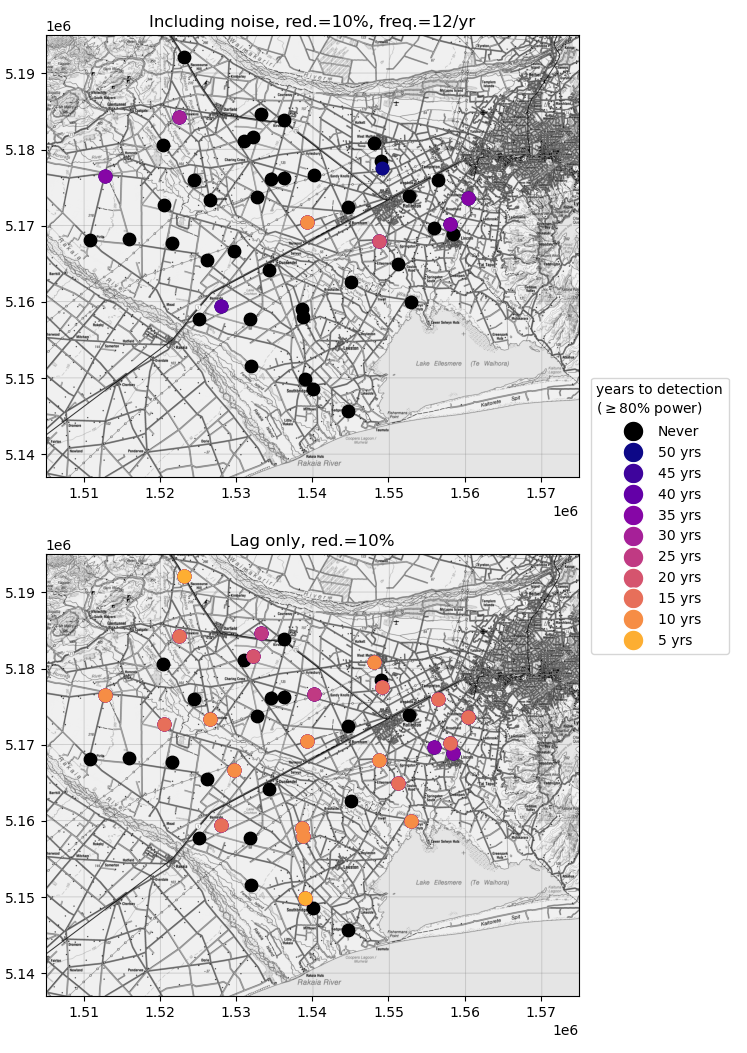
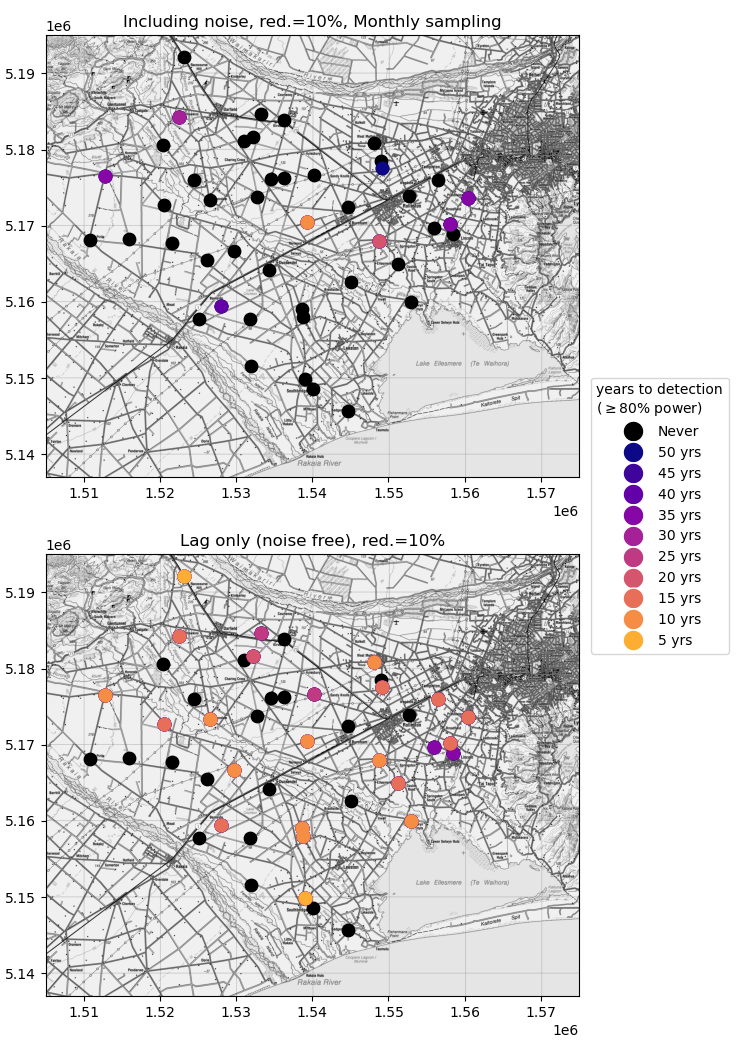
update figures, finish tweaking format, finish main body review

Changed region(s): [[0.1539, 0.0, 0.6774, 0.0304], [0.2771, 0.4862, 0.5234, 0.5166], [0.5542, 0.4862, 0.585, 0.5166]]

diff --git a/final_report_tex/custom_sections/results_discussion.tex b/final_report_tex/custom_sections/results_discussion.tex
@@ -20,7 +20,7 @@ The correct interpretation of this plot is that the lag at this well only allows
 However, if we consider the obscuration of noise, then with quarterly sampling the detection power is only likely to exceed 80\% in 2037 (gold line).
 We use the cutoff of 80\% as it is typically used nationally and internationally as the acceptable threshold for confidently drawing conclusions and/or making decisions from the monitoring results interpretation\citep{dumont_determining_nodate}.
 
-\kslfig {0.95\textwidth}{../GeneratedData/power_calc_site_plots/m36_3588_red30}{An example of the individual site detection power plots}{ex_plot}
+\kslfig {0.95\textwidth}{../GeneratedData/power_calc_site_plots/m36_3588_red30}{An example of the individual site detection power plots}{ex_plot}{}
 
 %--------------------------------------------------------------------------------------------------------------
 \subsubsection[Plateau Sites]{Plateau Sites: Sites Where \gls{no3n} Concentrations Will Not Decrease Under the assumed Pathway} \label{sec:plateau_results}
@@ -32,7 +32,6 @@ We refer to these sites as plateau sites. An example of a plateau site is shown 
 Well L35/0205 is a plateau site because the steep increasing trend in concentration in combination with the significant \gls{mrt} suggest that the source and receptor concentration are at a significant disequilibrium.
 Therefore, the rather minor reductions (10\%) in the assumed pathway will simply lower the eventual steady state concentration (e.g., gold vs fuchsia lines), but will not reduce the concentration below the observed initial concentration (sen slope fit in 2017).
 
-\kslfig {.95\textwidth}{../GeneratedData/power_calc_plateau_sites/l35_0205_red10}{An example of a Plateau Site}{ex_plateau}
 
 These plateau sites can cause a significant challenge in detection of nitrate leaching reductions.
 Our knowledge of equilibrium nitrate concentrations in the absence of nitrate loss reductions is poor.
@@ -40,25 +39,24 @@ This makes it difficult to understand the cause of any difference between a futu
 The differences could be due a number of factors \autoref{sec:intro} as well as, on the ground actions not actually being implemented and/or inaccuracies in the estimate of steady state concentration.
 These sites will require more sophisticated statistical analysis (for instance a counter-factual approach) to determine whether the \gls{pc1} nitrate loss reductions have been implemented.
 
-\autoref{fig:plateau_locs} shows the location of these plateau sites and at and the maximum nitrate loss reduction at which concentrations will plateau. % todo flip to will show a decreasing trend at >= 5% reduction
+\autoref{fig:plateau_locs} shows the location of these plateau sites and the required reduction to yeild a decreasing \gls{no3n} slope in the receptor.
 Note we did not include the surface water features here as there is too much uncertainty surrounding their \gls{mrt}.
-For the red shaded sites nitrate concentrations would be expected to plateau if the average nitrate loss reduction in the monitoring well capture zone is less than or equal to 5\% but would show a concentration decline if the reduction is greater than 5\%.
-Nitrate concentration reductions of 30\% or less are unlikely to result in nitrate concentration reductions for the fuchsia shaded sites.
+For the red shaded sites nitrate concentrations would only expect to decline in the well if the average nitrate loss reduction in the monitoring well capture zone is greater than 5\% otherwise the \gls{no3n} concentrations will plateau at a lower level than if no reductions had occurred.
 If an average nitrate loss reduction of 10\% is assumed, nitrate concentrations in the fuchsia, gold and blue shaded sites would all plateau at some point in the future, with no measurable decrease occurring.
 \autoref{tab:plateau} shows the percent of the groundwater network that will not show a decrease in \gls{no3n} concentrations at a given reduction level in the source.
 For example, 57\% of the groundwater network will not show a decrease in \gls{no3n} concentrations if the source is reduced by 5\%.
 This suggests that the \gls{pc1} reductions may not yield steady state concentrations below 2017 concentrations for a significant portion of groundwater network; however this is not necessarily a failure of \gls{pc1} as concentrations were expected to continue to increase after the implementation of \gls{pc1}, but to achieve an average concentration of <8.5 mg/l.
 
+\kslfig {.95\textwidth}{../GeneratedData/power_calc_plateau_sites/l35_0205_red10}{An example of a Plateau Site}{ex_plateau}{}
+
 \begin{landscape}
-    \kslfig {1.25\textwidth}{../GeneratedData/geospatial_plots/plateau_locs}{The \gls{no3n} reduction at which a given site will not show a negaitve slope but instead will reach a lower steady state concentration (wells only)}{plateau_locs}
+    \kslfig {1.25\textwidth}{../GeneratedData/geospatial_plots/plateau_locs}{The \gls{no3n} reductions needed at which a given site to yield a negaitve slope rather than a lower steady state concentration (wells only)}{plateau_locs}{}
 \end{landscape}
 
 %--------------------------------------------------------------------------------------------------------------
 \subsection[Mean Residence Time Impacts]{Mean Residence Time, Steady State Concentration, and Detection Power} \label{sec:mrt_results}
 
-%todo include breakaway or similar about how MRT is used.
-
-\begin{wrapfigure}{r}{0.5\textwidth}
+\begin{wrapfigure}{R}{0.5\textwidth}
     \begin{breakawaybox}[
         label={box:wierdresults}]{Counterinuitive Results}
         Some of the results here are counterintuitive; for instance, in \autoref{fig:sw_mrt} the detection power is higher with a \gls{mrt} of 10 years than with a \gls{mrt} of 5 years. Additionally, for some receptors (not pictured) the detection power increases and then subsequently decreases with increasing sampling duration.
@@ -88,10 +86,21 @@ Note that the counterintuitive result that the detection power with \gls{mrt} of
 
 
 %--------------------------------------------------------------------------------------------------------------
+\pagebreak
 \subsection[Network Detection Power]{Network Level Detection Power} \label{sec:network_results}
-\kslfig {0.95\textwidth}{../GeneratedData/geospatial_plots/detect_power_locs_red20_freq4}{Sampling duration until the probability of detecting a reduction is $\geq80\%$ }{timetodetect}
+\kslfig {0.95\textwidth}{../GeneratedData/geospatial_plots/detect_power_locs_red20_freq4}{Sampling duration until the probability of detecting a reduction is $\geq80\%$ }{timetodetect}{}
 
-%todo how many sites quarterly or greater (breakaway box?)
+
+\begin{wrapfigure}{R}{0.5\textwidth}
+    \begin{breakawaybox}[label={box:sfreq}]{Historical mean well sampling frequency}
+        \begin{itemize}
+        \item \textbf{Annually - Biannually}: 27 sites
+        \item \textbf{Biannually - Quarterly}: 10 sites
+        \item \textbf{Quarterly +}: 9 sites
+        \item \textbf{46 sites total}
+        \end{itemize}
+    \end{breakawaybox}
+\end{wrapfigure}
 
 \autoref{fig:network20} shows the sampling duration required to detect \gls{pc1} nitrate loss reductions (assuming a full 20\% reduction) with 80\% probability using quarterly sampling.
 The black dashed line in \autoref{fig:network4per} shows the percentage of the network which can detect \gls{pc1} reductions assuming that the true receptor concentration (i.e., with no noise) is known.
@@ -107,16 +116,6 @@ At current quarterly sampling rates, it will likely take until 2062 before 15 si
 Increasing to weekly or monthly sampling would improve the detection power of the network, and we could expect detection in those 15 sites by 2042 and 2037, respectively.
 However, any increase in sampling frequency would require a proportional increase in resource for the monitoring programmes.
 
-\begin{landscape}
-
-    \kslfig {1.25\textwidth}{../GeneratedData/overview_plots/well_detection_overview_red20}{The proportion of the groundwater network whick is likely to detect the full \gls{pc1} reductions (20\%)}{network20}
-
-    \kslfig {1.25\textwidth}{../GeneratedData/overview_plots/well_detection_overview_freq4}{The propotaion of the groundwater network which is likely to detect reduction at the current quarterly sampling frequency}{network4per}
-
-    \kslfig {1.25\textwidth}{../GeneratedData/overview_plots/well_detection_overview_red10}{The proportion of the groundwater network whick is likely to detect the full \gls{pc1} reductions (10\%)}{network10}
-
-\end{landscape}
-
 \autoref{fig:network4per} shows the effect of different reductions on detection power with a quarterly sampling frequency.
 Note that these figures exclude the plateau sites (see \autoref{sec:plateau_results} and \autoref{tab:plateau}).
 If we assume 10\% reductions on average in the source zone, then:
@@ -125,6 +124,16 @@ If we assume 10\% reductions on average in the source zone, then:
     \item With quarterly sampling we would not expect to see evidence of a 10\% reduction in more than 10\% of the remaining network and not until after 2050.
     \item Increasing sampling frequencies to monthly or weekly would significantly improve the probability of detection these changes(\autoref{fig:network10}). Note that increasing sampling frequency will not impact the plateau sites.
 \end{enumerate}
+
+\begin{landscape}
+
+    \kslfig {1.25\textwidth}{../GeneratedData/overview_plots/well_detection_overview_red20}{The proportion of the groundwater network whick is likely to detect the full \gls{pc1} reductions (20\%)}{network20}{}
+
+    \kslfig {1.25\textwidth}{../GeneratedData/overview_plots/well_detection_overview_freq4}{The propotaion of the groundwater network which is likely to detect reduction at the current quarterly sampling frequency}{network4per}{}
+
+    \kslfig {1.25\textwidth}{../GeneratedData/overview_plots/well_detection_overview_red10}{The proportion of the groundwater network whick is likely to detect the full \gls{pc1} reductions (10\%)}{network10}{}
+
+\end{landscape}
 
 %--------------------------------------------------------------------------------------------------------------
 \subsection[Counterfactual Approach]{The Benefits of a Future Counterfactual Approach} \label{sec:counterfactual}

diff --git a/final_report_tex/custom_sections/methodology.tex b/final_report_tex/custom_sections/methodology.tex
@@ -15,7 +15,7 @@ Note that the age data is not available for all sites.
 
 \begin{breakawaybox}[label={box:mrt}]{How mean residence time is identified}
     Groundwater ages are typically estimated from measured environmental tracers such as \gls{cfc}, \gls{h3} and \gls{sf6}.
-    We have historical atmospheric concentrations of these tracers and, because these tracer are conservative (concentrations do not change over time) or breakdown in a constant rate can use them to estimate the age of the groundwater.  This is typically done using simple 1d mixing models, such as the \gls{epfm}. These mixing models provide a distribution of ages for the water in the sample and the mean of this distribution is the \gls{mrt}. Because these mixing models simplify the systems there is some inherent, often unquantified, uncertainty in the age estimates. Nevertheless, these ages provide useful constraints on the distribution of ages in the aquifer and are useful for understanding the potential pathways of contaminants.
+    We have historical atmospheric concentrations of these tracers and, because these tracer are conservative (concentrations do not change over time) or breakdown in a constant rate can use them to estimate the age of the groundwater. This is typically done using simple 1d mixing models, such as the \gls{epfm}. These mixing models provide a distribution of ages for the water in the sample and the mean of this distribution is the \gls{mrt}. Because these mixing models simplify the systems there is some inherent, often unquantified, uncertainty in the age estimates. Nevertheless, these ages provide useful constraints on the distribution of ages in the aquifer and are useful for understanding the potential pathways of contaminants.
 
 \end{breakawaybox}
 
@@ -30,10 +30,10 @@ The data was processed as follows:
     \item \textbf{Estimate the age distribution, streams}: There was no age estimates for the spring fed streams and the Selwyn-Waikirikiri; therefore we assessed the detection power assuming a range \gls{mrt} values: 5, 10, 20, and 30 years. The other age model parameters were assumed to be the median of all sites within (7.5 or 10 km) and <=10m depth. Further details are available in the \gls{proj_repo}
 \end{enumerate}
 
-\kslfig {0.90\textwidth}{figures/m36_8187}{Site M36/8187: note the "true" outliers (black) and the trend outliers(red)}{ex_outlier_trend}
+\kslfig {0.90\textwidth}{figures/m36_8187}{Site M36/8187: note the "true" outliers (black) and the trend outliers(red)}{ex_outlier_trend}{}
 
 \begin{landscape}
-    \kslfig{1.25\textheight}{../figures/selwyn_sites}{Final Site Locations}{sitelocs}
+    \kslfig{1.25\textheight}{../figures/selwyn_sites}{Final Site Locations}{sitelocs}{}
 \end{landscape}
 
 
@@ -62,12 +62,13 @@ The method to calculate the detection power of a given site was implemented afte
 using our open source package\citep{dumont_komanawagw_detect_power_2023}.
 Briefly the methodology is as follows for each site:
 
-\begin{wrapfig}{r}{0.4\textwidth}
+\begin{wrapfigure}{R}{0.70\textwidth}
     \begin{breakawaybox}[label={box:dp}]{What is Detection Power}
-        Detection power is the percent probability of detecting a statistically robust trend in the receptor concentration time series. Noisy data reduces the detection power while more frequent sampling increases the detection power. 
-        \includegraphics{figures/dp_ex}
+        Detection power is the percent probability of detecting a statistically robust trend in the receptor concentration time series. Noisy data reduces the detection power while more frequent sampling increases the detection power.
+        \\
+        \includegraphics[width=0.95\textwidth]{figures/dp_ex}
     \end{breakawaybox}
-\end{wrapfig}
+\end{wrapfigure}
 
 \begin{enumerate}
     \item Ascertain whether the historical concentration data has a statistically robust trend (e.g. via a Mann-Kendall test, see \autoref{fig:ex_outlier_trend})
@@ -99,7 +100,7 @@ Site M36/0698 has a statistically robust increasing trend, approximately 0.12 mg
 Given the \gls{mrt} of 22.75 years the best fit of the data (solid gold line) suggests that the peak source concentration is likely to be c. 7 mg/l \gls{no3n} (dashed gold line).
 More details on this process are available in \citet{dumont_determining_nodate, dumont_komanawagw_age_tools_2023}
 
-\kslfig {.95\textwidth}{figures/m36_0698_red20_true_conc}{Site M36/0698 as an example of the source concentration prediction}{source_ex}
+\kslfig {.95\textwidth}{figures/m36_0698_red20_true_conc}{Site M36/0698 as an example of the source concentration prediction}{source_ex}{}
 
 For the statistical test we used:
 \begin{itemize}
@@ -114,3 +115,11 @@ Finally, some sites will not have a decreasing \gls{no3n} concentration because 
 In this case the aforementioned multipart Mann-Kendall test would never detect a trend.
 Therefore, we conducted a subsequent multipart Mann-Kendall test which identified a breakpoint where there was an earlier increasing trend (p<0.05) and subsequently no trend (p>0.5). These plateau sites are further discussed in \autoref{sec:plateau_results}.
 
+\begin{breakawaybox}[label={box:mrttoconc}]{Source to Receptor Concentration}
+    The receptor concentration at a given time is calculated from the source concentration using a \gls{epfm}.
+    For instance below the concentration in the receptor at 2014-10-21 (red circle) is calculated as the sum of the source concentration time series times (plot 1) the proportion of the water in the receptor on 2014-10-21 that originated from the source at that time (plot 2).
+    \\
+    \begin{center}
+        \includegraphics[width=0.65\textwidth]{../GeneratedData/mrt_explain_fig}
+    \end{center}
+\end{breakawaybox}

diff --git a/final_report_tex/custom_sections/Introduction.tex b/final_report_tex/custom_sections/Introduction.tex
@@ -8,6 +8,20 @@ At concentrations > 0.8 mg/l, \gls{no3n} can stimulate the growth of periphyton 
 \citep{camargo_nitrate_2005, horak_assessing_2019,wagenhoff_identifying_2017};
 finally concentrations above the \gls{mav} (>11.3 mg/l) can cause human health impacts\citep{rahman_anthropogenic_2021}.
 
+\begin{wrapfigure}{R}{0.6\textwidth}
+    \begin{breakawaybox}[label={box:no3_red}]{\gls{no3n} reduction required by \gls{pc1}}
+        \begin{itemize}
+            \item 30\% for dairy
+            \item 2\% for dryland sheep, beef or deer
+            \item 22\% for dairy support
+            \item 7\% for arable
+            \item 20\% for pigs
+            \item 5\% for fruit, viticulture or vegetables
+            \item 5\% for irrigated sheep, beef or deer
+        \end{itemize}
+    \end{breakawaybox}
+\end{wrapfigure}
+
 The Selwyn Waihora zone is a large catchment in the Canterbury plains south of Christchurch.
 The catchment stretches from the foothills of the Southern Alps to the coast.
 There is significant agricultural activity, as well as many high value ecosystems including Te Waihora / Lake Ellesmere and the Kaitorete Spit.
@@ -18,19 +32,6 @@ In addition, \gls{pc1} predated the National Policy Statement for Freshwater Man
 \gls{pc1} \gls{no3n} reductions ranged from 2-30\% \autoref{box:no3_red}.
 Implementation of these \gls{no3n} reductions were expected to begin in 2017 and should have been fully implemented by 2022.
 
-\begin{\wrapfigure}{r}{0.4\textwidth}
-    \begin{\breakawaybox}[label={box:no3_red}]{\gls{no3n} reduction required by \gls{pc1}}
-        \begin{itemize}
-            \item 30\% for dairy
-            \item 2\% for dryland sheep, beef or deer
-            \item 22\% for dairy support
-            \item 7\% for arable
-            \item 20\% for pigs
-            \item 5\% for fruit, viticulture or vegetables
-            \item 5\% for irrigated sheep, beef or deer
-        \end{itemize}
-    \end{\breakawaybox}
-\end{\wrapfigure}
 
 Environment Canterbury maintains a network of monitoring wells and surface water sites to track \gls{no3n} concentrations in the Selwyn Waihora zone as is required by the The Resource Management Act 1991.
 The monitoring programmes are reviewed periodically with the most recent review of the groundwater quality and water level network being in 2022.
@@ -39,20 +40,18 @@ The state purpose of the groundwater monitoring network is to:
     \item Monitor long-term groundwater state and trends.
     \item Improve scientific understanding of Canterbury groundwater systems and help Environment Canterbury manage groundwater in the region.
     \item Assess progress against freshwater outcomes.
-    \item Inform the effectiveness of regional policies and plans (Groundwater Section, 2023).
+    \item Inform the effectiveness of regional policies and plans \citep{ecan_monitor_review}.
 \end{itemize}
-
-%todo add and cite Reference: Groundwater Science Section. 2023. Groundwater Monitoring Network Review, Environment Canterbury Science Summary: R23/35, August 2023.
 
 Although many landowners have stated they have already fully implemented the required reductions\citep{scottpc}, \gls{no3n} concentrations at most sites in the Selwyn Waihora zone have not yet shown any significant reductions\citep{scottpc}.
 This discrepancy could be caused by a number of factors including:
 \begin{itemize}
     \item Lag
-    \begin{}
+    \begin{itemize}
         \item \gls{no3n} concentrations have not yet reached steady state with the monitoring network.
         \item Historical increases in \gls{no3n} concentrations that have yet to reach steady state with the monitoring network.
         \item \gls{no3n} stored in the unsaturated (vadose) zone.
-    \end{}
+    \end{itemize}
     \item Insufficient precision in the \gls{no3n} monitoring network (a lack of detection power).
     \item Nitrate loss mitigations are less effective than expected.
     \item The difference in \gls{no3n} load and \gls{no3n} leachate concentration. \gls{pc1} reductions are defined as percent reductions in \gls{no3n} load. Changes in coincident land surface recharge changes (e.g., more efficient irrigation) can yield increasing or decreasing \gls{no3n} leachate concentration.

diff --git a/detection_power/geospatial_plots.py b/detection_power/geospatial_plots.py
@@ -12,7 +12,7 @@ from project_base import generated_data_dir, proj_root
 from site_selection.get_n_data import get_n_metadata, get_final_sites
 from detection_power.detection_power_calcs import get_all_plateau_sites, get_trend_detection_power, \
     get_no_trend_detection_power, reductions, samp_freqs, samp_durs, get_trend_detection_power_no_noise, \
-    get_no_trend_detection_power_no_noise
+    get_no_trend_detection_power_no_noise, wordy_samp_freqs
 
 base_map_path = proj_root.joinpath('original_data/topo250/nz-topo250-maps.jpg')
 outdir = generated_data_dir.joinpath('geospatial_plots')
@@ -30,12 +30,12 @@ def plot_plateau_locs():
 
     colors = ['r', 'b', 'gold', 'fuchsia']
     idx = final_sites['type'] != 'stream'
-    ax.scatter(final_sites.loc[idx, 'nztmx'], final_sites.loc[idx, 'nztmy'], c='k', label='Never', s=msize)
+    ax.scatter(final_sites.loc[idx, 'nztmx'], final_sites.loc[idx, 'nztmy'], c='k', label='>0% reduction', s=msize)
     for c, red in zip(colors, reductions):
         temp = final_sites.loc[get_all_plateau_sites(red)]
         temp = temp.loc[temp['type'] != 'stream']
-        ax.scatter(temp['nztmx'], temp['nztmy'], c=c, label=f'$\leq${int(red * 100)}% reduction', s=msize)
-    ax.legend(title='Plateau at:', loc='upper right')
+        ax.scatter(temp['nztmx'], temp['nztmy'], c=c, label=f'> {int(red * 100)}% reduction', s=msize)
+    ax.legend(title='Decreasing concentrations\npossible in receptor at:', loc='upper right')
     fig.tight_layout()
     fig.savefig(outdir.joinpath('plateau_locs.png'))
     plt.show()
@@ -91,8 +91,8 @@ def plot_detect_power_locs():
             ax2.scatter(temp['nztmx'], temp['nztmy'], color=c, label=f'{dur} years', s=msize)
 
         cax.legend(handles, labels, loc='center left', title='years to detection\n($\geq$80% power)')
-        ax1.set_title(f'Including noise, red.={int(red * 100)}%, freq.={freq}/yr')
-        ax2.set_title(f'Lag only, red.={int(red * 100)}%')
+        ax1.set_title(f'Including noise, red.={int(red * 100)}%, {wordy_samp_freqs[freq]} sampling')
+        ax2.set_title(f'Lag only (noise free), red.={int(red * 100)}%')
         for ax in [ax1, ax2]:
             ax.set_ylim(5.137e6, 5.195e6)
             ax.set_xlim(1.505e6, 1.575e6)

diff --git a/BASE_investigation/explain_fig.py b/BASE_investigation/explain_fig.py
@@ -1,0 +1,66 @@
+"""
+created matt_dumont 
+on: 13/02/24
+"""
+import matplotlib.pyplot as plt
+import numpy as np
+import pandas as pd
+from gw_age_tools import predict_future_conc_bepm, binary_exp_piston_flow, check_age_inputs
+from project_base import generated_data_dir
+
+
+def mrt_explain_fig():
+    once_and_future_source_conc = pd.Series({
+        -50.: 1,
+        -40: 1.5,
+        -30: 2,
+        -20: 3,
+        -10: 5,
+        -7: 7,
+        -5: 6.5,
+        -3: 6.8,
+        -2: 7,
+        -1: 6.2,
+        0: 5.5,
+    })
+    fig, (ax1, ax2, ax3) = plt.subplots(3, 1, figsize=(6, 6), sharex=False)
+    ax2.sharex(ax1)
+    mrt = 10
+    mrt_p1 = 10
+    frac_p1 = 1
+    precision = 2
+    mrt_p2 = None
+    f_p1 = 0.7
+    f_p2 = 0.3
+    mrt, mrt_p2 = check_age_inputs(mrt, mrt_p1, mrt_p2, frac_p1, precision, f_p1, f_p2)
+    predict_start = -10
+    predict_stop = 0
+    recptor = predict_future_conc_bepm(once_and_future_source_conc, predict_start, predict_stop,
+                                       mrt_p1, frac_p1, f_p1, f_p2, mrt=mrt, mrt_p2=mrt_p2, fill_value=1)
+    ax1.plot(convert_to_dt(once_and_future_source_conc.index), once_and_future_source_conc.values)
+    ax1.set_ylabel('Concentration')
+    ax1.set_title('Source Concentration over time')
+
+    ax3.plot(convert_to_dt(recptor.index), recptor.values, 'o-')
+    ax3.set_ylabel('Concentration')
+    ax3.set_title('=\n\nReceptor Concentration over time')
+    ax3.scatter(convert_to_dt(-5.2), recptor.loc[-5.2], color='r', marker='o', s=200, zorder=5, label=convert_to_dt(-5.2).date())
+    ax3.legend()
+
+    ages = np.arange(0, 50 - 5.2, 0.01)
+    pdf = binary_exp_piston_flow(ages, mrt_p1, mrt_p2, frac_p1, f_p1, f_p2, )
+    ax2.plot(convert_to_dt(ages * -1 + -5.2), pdf, label='PDF')
+    ax2.set_ylabel('Proportion of water\nfrom source at a time')
+    ax2.set_title(f'X\n\nAge Distribution at {convert_to_dt(-5.2).date()}')
+
+    fig.supxlabel('Date')
+    fig.tight_layout()
+    fig.savefig(generated_data_dir.joinpath('mrt_explain_fig.png'))
+    plt.show()
+
+def convert_to_dt(ages):
+    return pd.to_timedelta(ages * 365, unit='D') + pd.to_datetime('2020-01-01')
+
+
+if __name__ == '__main__':
+    mrt_explain_fig()

diff --git a/final_report_tex/custom_sections/conclustions.tex b/final_report_tex/custom_sections/conclustions.tex
@@ -1,6 +1,6 @@
 %! Author = matt_dumont
 %! Date = 14/12/23
-
+\pagebreak
 \section[Conclusions]{Conclusions} \label{sec:conclusions}
 
 We conclude that:
@@ -15,7 +15,8 @@ We conclude that:
     \item The current monitoring network is not well suited to the detection of reductions in \gls{no3n} concentrations in the Selwyn Waihora catchment; however the network serves multiple purposes some of which are counter to high detection powers (e.g., characterising the state of the deep aquifer system). Note we have not assessed the spatial representativeness of the monitoring network in this analysis as it was beyond the scope of this project.
 \end{itemize}
 
-\section[Recommendations]{Recommendations} \label{sec:recommendations} % todo stopped review here!, % todo start here
+\pagebreak
+\section[Recommendations]{Recommendations} \label{sec:recommendations}
 
 % todo have not looked at overall comments!
 

diff --git a/final_report_tex/custom_sections/executive_summary.tex b/final_report_tex/custom_sections/executive_summary.tex
@@ -4,7 +4,7 @@
 \phantomsection % add to toc (make the link go to the right location)
 \addcontentsline{toc}{section}{Executive Summary} % add to toc
 \section*{Executive Summary} \label{exsum} % the asterisk prevents a section number from being assigned
-
+%todo not reviewed
 
 \gls{pc1} of the Canterbury Land and Water Regional Plan included requirements for farmers in the Selwyn Waihora catchment to reduce nitrate discharges to groundwater to support water quality improvements.
 \gls{pc1} became operational in 2016 with a requirement for \gls{no3n} reductions to be fully implemented by 2022.

diff --git a/final_report_tex/tables/version_control_table.tex b/final_report_tex/tables/version_control_table.tex
@@ -12,7 +12,9 @@
         Date & Status & Comment \\
         13/12/2023 & Draft & First Draft by Matt Dumont \\
         20/12/2023 & Draft & Review by Zeb Etheridge \\
-        22/12/2023 & Semi-Final & Review by Matt Dumont and provided to \client \\
+        22/12/2023 & Final Draft & Review by Matt Dumont and provided to \client \\
+        02/02/2024 & In Review & Review by Lisa Scott \& Phillipa Aitchison-Earl of Environment Canterbury \\
+        14/02/2024 & In Review & Matt Dumont response to Ecan review \\
         % a couple of empty rows
         ~ & ~ & ~ \\
         ~ & ~ & ~ \\

diff --git a/detection_power/detection_power_calcs.py b/detection_power/detection_power_calcs.py
@@ -17,6 +17,8 @@ from generate_true_concentration.gen_true_slope_init_conc import get_site_true_r
 samp_durs = np.arange(5, 55, 5)
 samp_freqs = (1, 4, 12, 52)
 
+wordy_samp_freqs = {1: 'Annual', 4: 'Quarterly', 12: 'Monthly', 52: 'Weekly'}
+
 
 def make_trend_meta_data():
     use_sites = get_final_sites()
